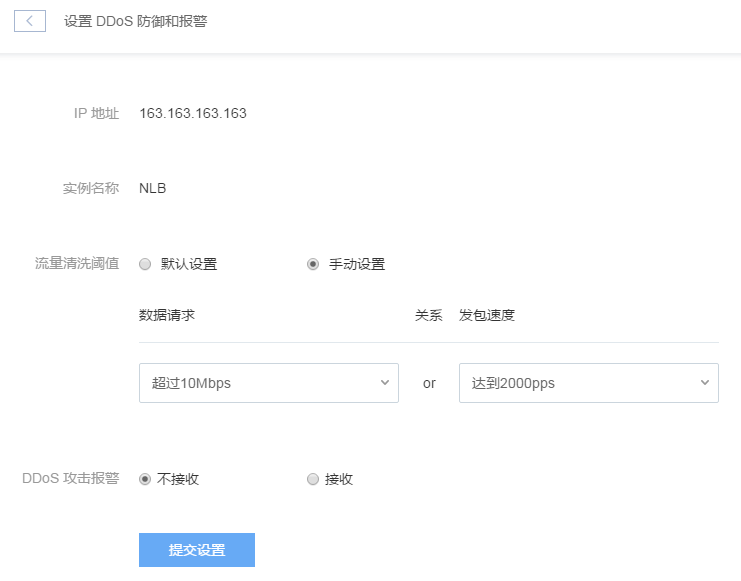
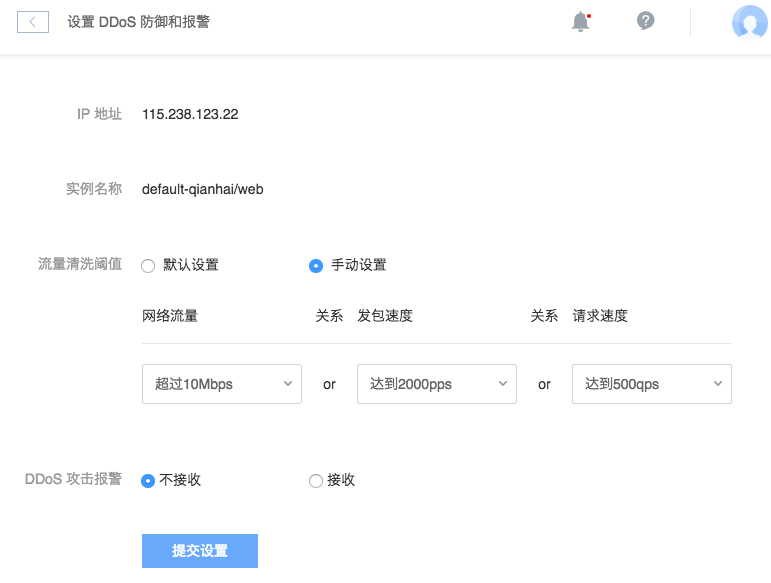
Featrue:DDoS防护支持七层

diff --git a/平台服务/安全服务/DDoS防护使用指南/设置 DDoS 防御和报警.md b/平台服务/安全服务/DDoS防护使用指南/设置 DDoS 防御和报警.md
@@ -1,6 +1,6 @@
 # 设置 DDoS 防御和报警
 
-点击左侧的导航菜单「安全服务」，进入安全范围页面，在「流入流出监控」标签内选择需要设置的对应模块，再点击右侧的「设置」按钮：
+点击左侧的导航菜单「安全服务」，进入安全服务页面，在「流量监控」标签内选择需要设置的对应模块，再点击右侧的「设置」按钮：
 
 ![](../image/设置DDoS防御和报警-设置.png)
 
@@ -10,8 +10,10 @@
 
 ![](../image/设置DDoS防御和报警-详情.png)
 
-* 流量清洗阈值支持根据攻击规模**或**发包速度设定；
-* 选择某项数据请求后，将自动生成发包速度推荐值（支持再次自定义）。
+* 流量清洗阈值支持根据以下项目设定：
+	* 网络流量
+	* 发包速度
+	* 请求速度
 
 <span>Attention:</span><div class="alertContent">若不了解流量清洗阈值的合理范围，建议使用默认设置即可。</div>
 

diff --git a/平台服务/安全服务/navigation.md b/平台服务/安全服务/navigation.md
@@ -7,7 +7,7 @@
 
 [DDoS 防护使用指南]()
 
-  * [设置 DDoS 防御和报警](平台服务/安全服务/DDoS使用指南/设置 DDos 防御和报警.md)
+  * [设置 DDoS 防御和报警](平台服务/安全服务/DDoS防护使用指南/设置 DDos 防御和报警.md)
 
 
 [访问控制使用指南]()
